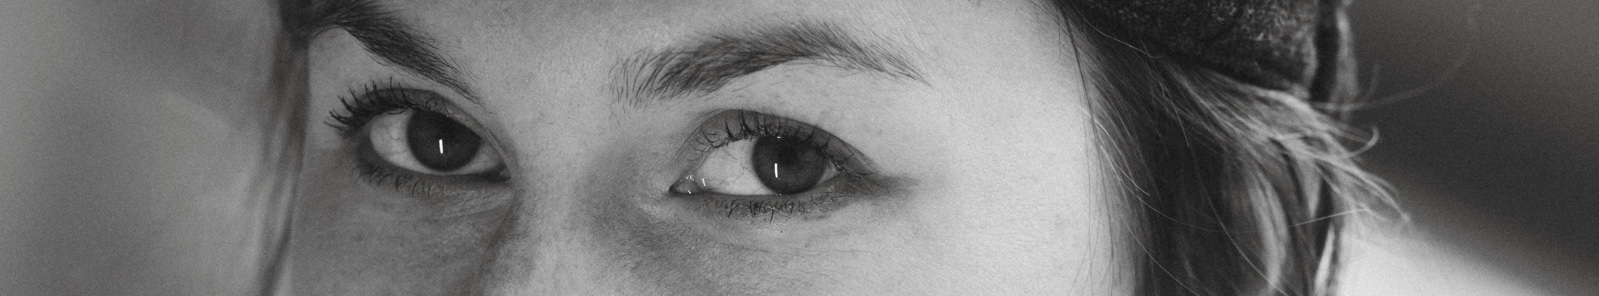
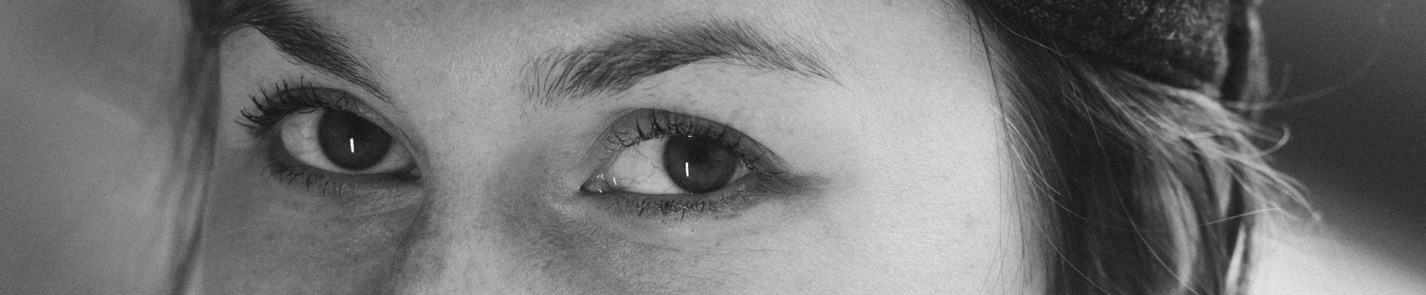
heading-picture formatted

diff --git a/css/styles.css b/css/styles.css
@@ -40,6 +40,8 @@ a.nav-link:hover {
 }
 .heading-picture {
   padding-top: 20px;
+  display: block;
+  margin: 0 auto;
 }
 .hero {
   background-color: var(--hero-color);
